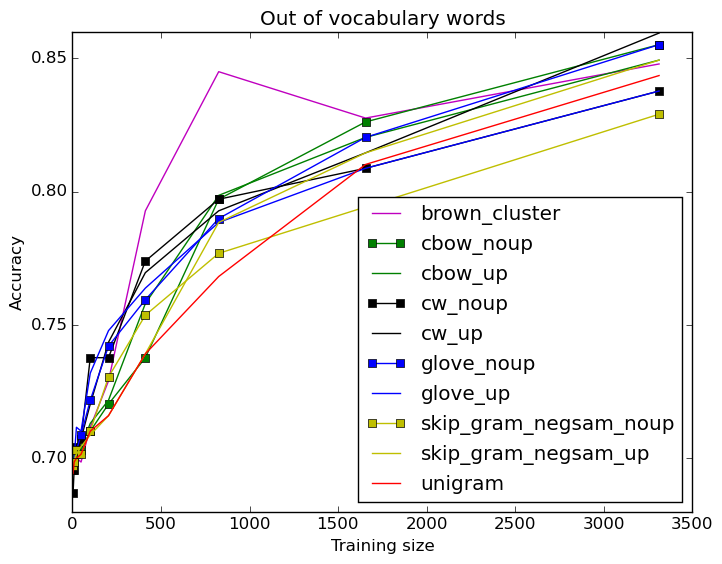
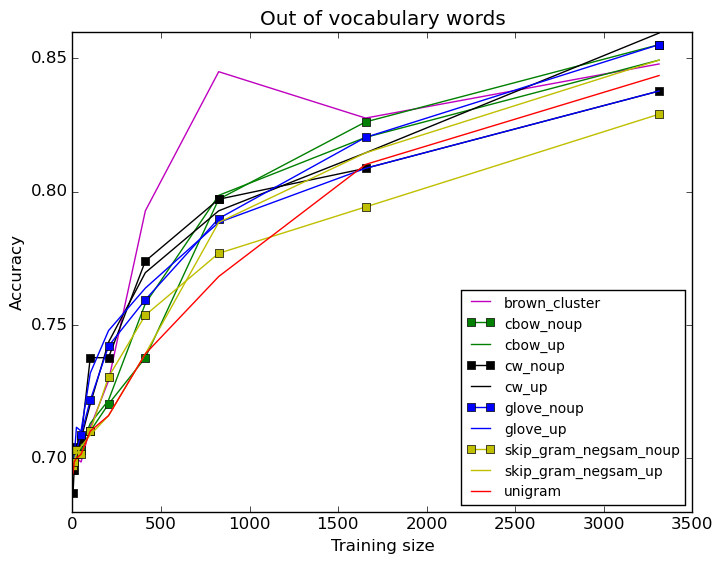
updated plots with alpha order and colored methods across the figures

Changed region(s): [[0.4875, 0.3316, 0.9751, 0.9043]]

diff --git a/trunk/plots/NERoutOfVocIN.py b/trunk/plots/NERoutOfVocIN.py
@@ -39,8 +39,7 @@ marker = ''
 linestyle = '-'
 noupMarker = 's'
 walk_dir = inputfolder
-legParams = {'legend.fontsize': 10,
-          'legend.linewidth': 0.4}
+legParams = {'legend.fontsize': 10}
 
 alist_filter = ['brown_cluster_v4000_best.txt', 
 	'cbow_negsam_noupdated_best.txt', 
@@ -156,7 +155,7 @@ for root, subdirs, files in sortedWalk(walk_dir):
 plt.xlabel('Training size')
 plt.ylabel('F1-Measure')
 
-# plt.rcParams.update(legParams)
+plt.rcParams.update(legParams)
 plt.legend(loc='lower right')
 savefig(outputfile, bbox_inches='tight')
 #plt.show()

diff --git a/trunk/plots/NERoutOfVocOUT.py b/trunk/plots/NERoutOfVocOUT.py
@@ -39,8 +39,7 @@ marker = ''
 linestyle = '-'
 noupMarker = 's'
 walk_dir = inputfolder
-legParams = {'legend.fontsize': 10,
-          'legend.linewidth': 0.4}
+legParams = {'legend.fontsize': 10}
 
 alist_filter = ['brown_cluster_v4000_best.txt', 
 	'cbow_negsam_noupdated_best.txt', 
@@ -151,7 +150,7 @@ for root, subdirs, files in sortedWalk(walk_dir):
 plt.xlabel('Training size')
 plt.ylabel('F1-Measure')
 
-# plt.rcParams.update(legParams)
+plt.rcParams.update(legParams)
 plt.legend(loc='lower right')
 savefig(outputfile, bbox_inches='tight')
 #plt.show()

diff --git a/trunk/plots/MWEoutOfVoc.py b/trunk/plots/MWEoutOfVoc.py
@@ -40,8 +40,7 @@ color = 'r'
 linestyle = '-'
 noupMarker = 's'
 walk_dir = inputfolder
-legParams = {'legend.fontsize': 10,
-          'legend.linewidth': 0.4}
+legParams = {'legend.fontsize': 10}
 
 alist_filter = ['brown_cluster_v4000_best.txt', 
 #	'cbow_negsam_noupdated_best.txt', 
@@ -157,7 +156,8 @@ plt.title('Out of vocabulary words')
 plt.xlabel('Training size')
 plt.ylabel('Accuracy')
 
-plt.legend(loc='best')
+plt.rcParams.update(legParams)
+plt.legend(loc='lower right')
 savefig(outputfile, bbox_inches='tight')
 #plt.show()
 
